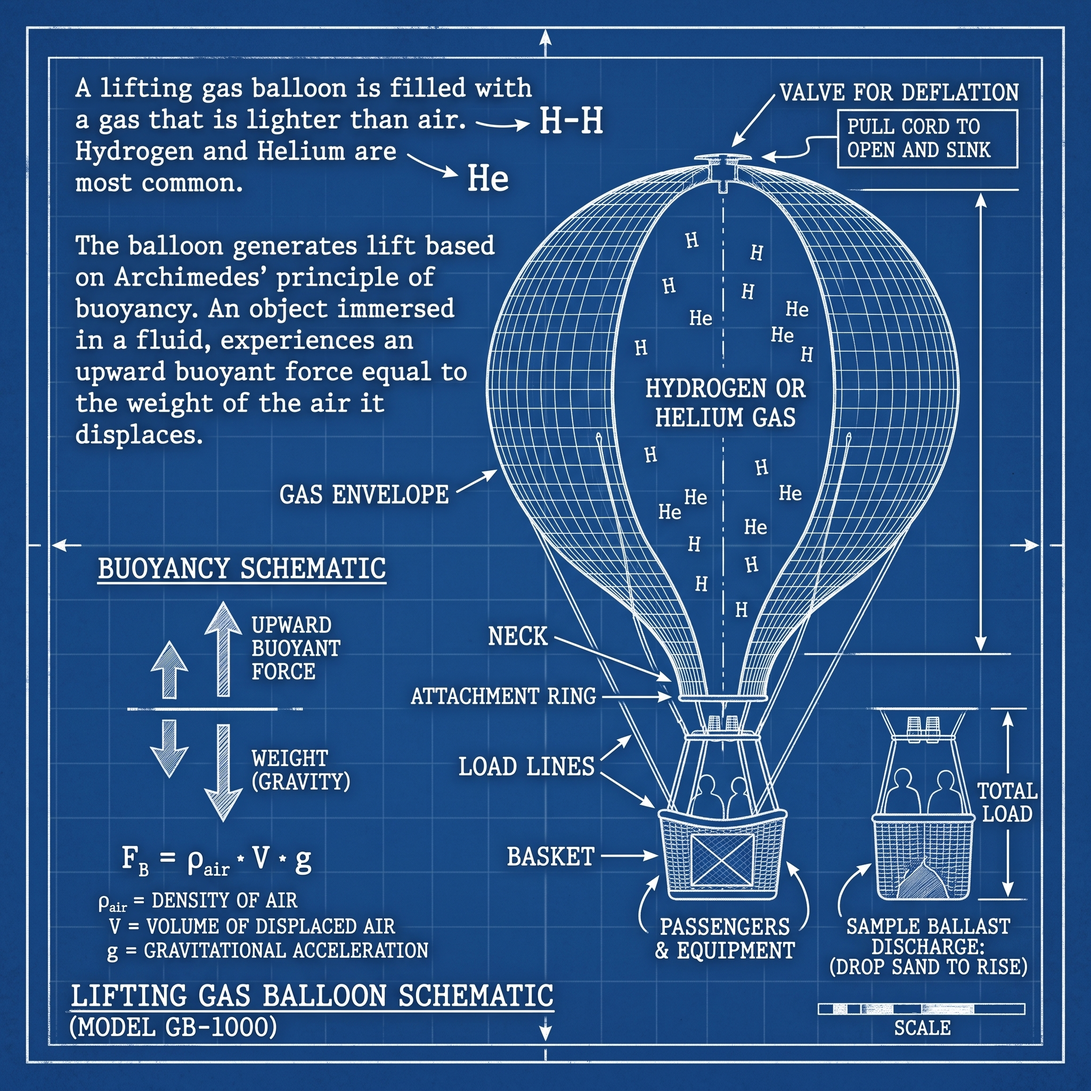
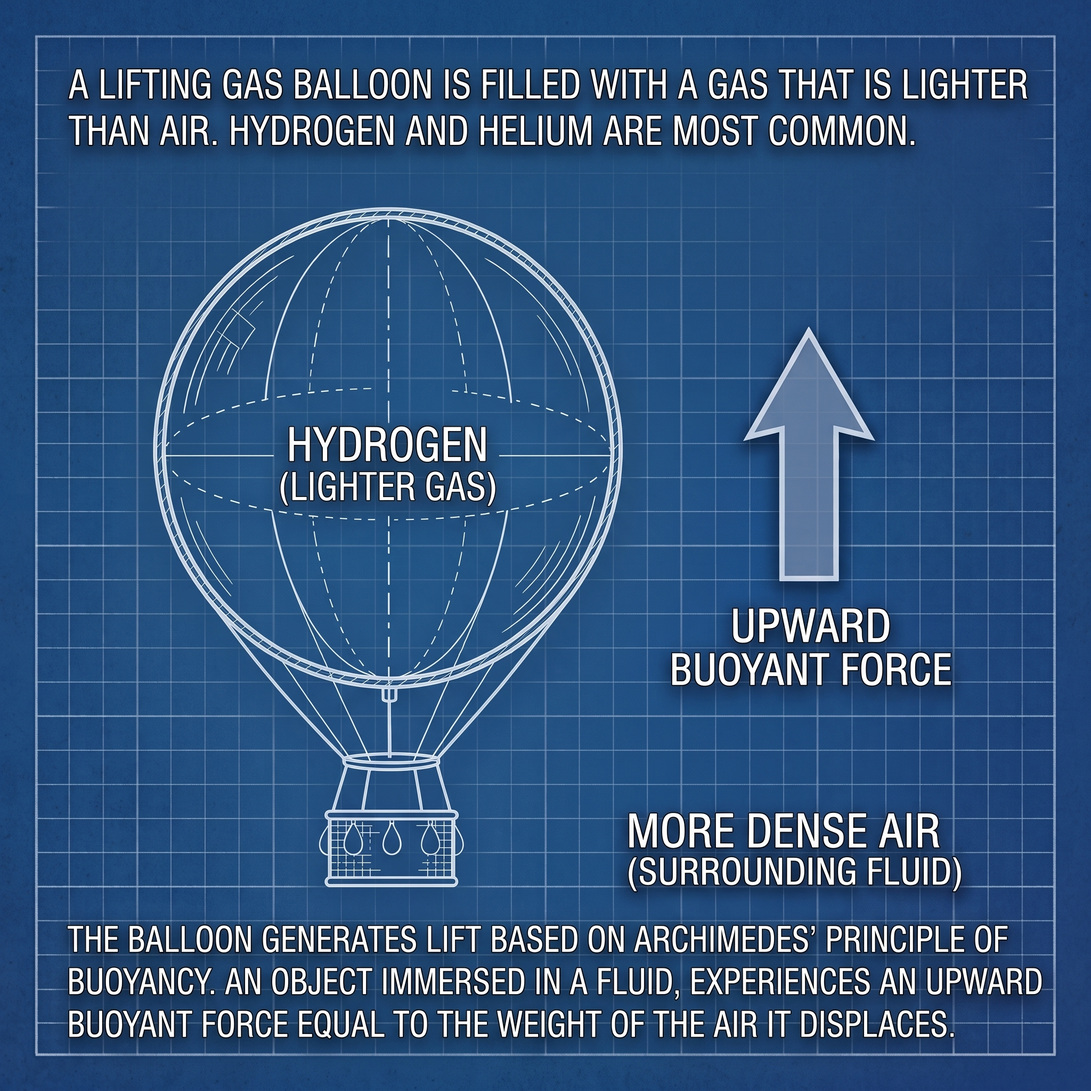
blueprints

diff --git a/2 - Lighter than Air/02 - How it works.md b/2 - Lighter than Air/02 - How it works.md
@@ -1,6 +1,6 @@
 # How it works
 
-This is a page in a children's book.  The aspect ratio should be 1:1.  There should be an image with the text overlaid.
+This is a page in a children's book.  The aspect ratio should be 1:1.  The image should be 12" x 12" at 300DPI.  There should be an image with the text overlaid.
 
 ## Text
 
@@ -10,6 +10,10 @@ The hot air is less dense than the surrounding air.  This causes it to rise.
 
 ## Image
 
-Show a drawing of how the Montgolfier hot air balloon worked.  This should depict hot, lighter air in the balloon, causing it to rise through less dense air.
+Show a drawing of the Montgolfier hot air balloon worked.  
+
+This should depict a brazier heating the bottom of the balloon.  
+Arrows show expanding air leaving the bottomo of the balloon.
+Another arrow shows buoyancy.
 
 The drawing should be in the style of a blueprint schematic.

diff --git a/2 - Lighter than Air/04 - How it works.md b/2 - Lighter than Air/04 - How it works.md
@@ -4,12 +4,17 @@ This is a page in a children's book.  The aspect ratio should be 1:1.  There sho
 
 ## Text
 
-A lifting gas balloon is filled with a gas that is lighter than air.  Hydrogen and Helium are most common.
+A lifting gas balloon is filled with a gas that is lighter than air.  Hydrogen and helium are most common.
 
 The balloon generates lift based on Archimedes’ principle of buoyancy.  An object immersed in a fluid, experiences an upward buoyant force equal to the weight of the air it displaces.
 
 ## Image
 
-Show a drawing of a lifting gas balloon.
+Use the example image as a guide.  
 
 The drawing should be in the style of a blueprint schematic.
+
+Show a drawing of a hydrogen ballon.  The balloon is an enclosed sphere with a basket hanging from it.
+
+Label the Hydrogen in the ballon and the less dense air outside.
+

diff --git a/2 - Lighter than Air/10 - How it works.md b/2 - Lighter than Air/10 - How it works.md
@@ -10,6 +10,6 @@ Helium is heavier than hydrogen.  So, while safer, it is an inferior lifting gas
 
 ## Image
 
-Show a drawing of a helium atom with protons, neutrons and electrons.
+Show a drawing of a helium atom with 2 protons, 2 neutrons and 2 electrons.
 
 The drawing should be in the style of a blueprint schematic.
